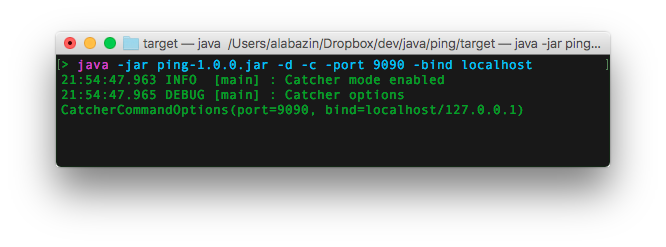
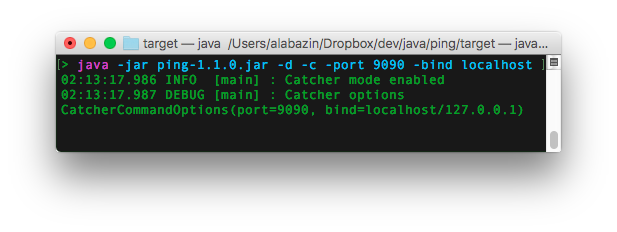
Update docs to release

Changed region(s): [[0.0616, 0.1207, 0.9238, 0.694]]

diff --git a/README.md b/README.md
@@ -31,7 +31,7 @@ The output of the program (in **pitcher** mode) shows the following:
 Example of output (**pitcher** mode):
 
 ```bash
-$> java -jar ping-1.0.0.jar -p -port 9090 localhost
+$> java -jar ping-1.1.0.jar -p -port 9090 localhost
 16:36:38.379 INFO  [main] : Pitcher mode enabled
 16:36:39.442 INFO  [pool-3-thread-1] :
 total send and received messages: 1, the last second 1 msgs/s
@@ -43,11 +43,11 @@ A->B->A: max 330ms, A->B->A: avg 330ms, A->B: avg 278ms, B->A: avg 52ms
 Print help information:
 
 ```bash
-$> java -jar ping-1.0.0.jar --help
+$> java -jar ping-1.1.0.jar --help
 
 Client-server program for determining network round trip time.
 
-Usage: java -jar ping-1.0.0.jar [options] [command] [command options]
+Usage: java -jar ping-1.1.0.jar [options] [command] [command options]
   Options:
     --debug, -d
       Setup ROOT log level to DEBUG.
@@ -86,14 +86,14 @@ Usage: java -jar ping-1.0.0.jar [options] [command] [command options]
 Starting **catcher** listener:
 
 ```bash
-$> java -jar ping-1.0.0.jar -c -port 9090 -bind localhost
+$> java -jar ping-1.1.0.jar -c -port 9090 -bind localhost
 20:50:57.579 INFO  [main] : Catcher mode enabled
 ```
 
 Launching the program in **pitcher** mode:
 
 ```bash
-$> java -jar ping-1.0.0.jar -p -port 9090 localhost
+$> java -jar ping-1.1.0.jar -p -port 9090 localhost
 16:36:38.379 INFO  [main] : Pitcher mode enabled
 16:36:39.442 INFO  [pool-3-thread-1] :
 total send and received messages: 1, the last second 1 msgs/s
@@ -151,13 +151,13 @@ Creating ping-catcher
 ```bash
 $> docker images
 REPOSITORY        TAG        IMAGE ID         CREATED            SIZE
-xxlabaza/ping     1.0.0      85b405f9af66     31 minutes ago     170 MB
+xxlabaza/ping     1.1.0      85b405f9af66     31 minutes ago     170 MB
 xxlabaza/ping     latest     85b405f9af66     31 minutes ago     170 MB
 ```
 
 4. after that we can check it by launching **pitcher**:
 ```bash
-$> java -jar ping-1.0.0.jar -p -port 9090 localhost
+$> java -jar ping-1.1.0.jar -p -port 9090 localhost
 21:46:39.875 INFO  [main] : Pitcher mode enabled
 21:46:40.933 INFO  [pool-3-thread-1] :
 total send and received messages: 1, the last second 1 msgs/s

diff --git a/CHANGELOG.md b/CHANGELOG.md
@@ -11,10 +11,24 @@ and this project adheres to [Semantic Versioning](http://semver.org/spec/v2.0.0.
 ## [Unreleased]
 
 - Upper bound for **pitcher**'s thread pools and its queues sizes.
-- Add more **JUnit** tests.
-- Add Netbeans code style files.
-- Rewrite **catcher** to NIO.
 - Let's Travis build test automatically.
+- Reduce code complexity and do refactoring.
+
+## [1.1.0](https://github.com/xxlabaza/ping/releases/tag/1.1.0) - 2017-06-28
+
+Welcome to NIO!
+
+### Added
+
+- Included Netbeans code format file.
+
+- Created few tests for **catcher** mode.
+
+### Changed
+
+- Rewrited **catcher** mode to NIO.
+
+- Improved README.
 
 ## [1.0.0](https://github.com/xxlabaza/ping/releases/tag/1.0.0) - 2017-06-26
 
